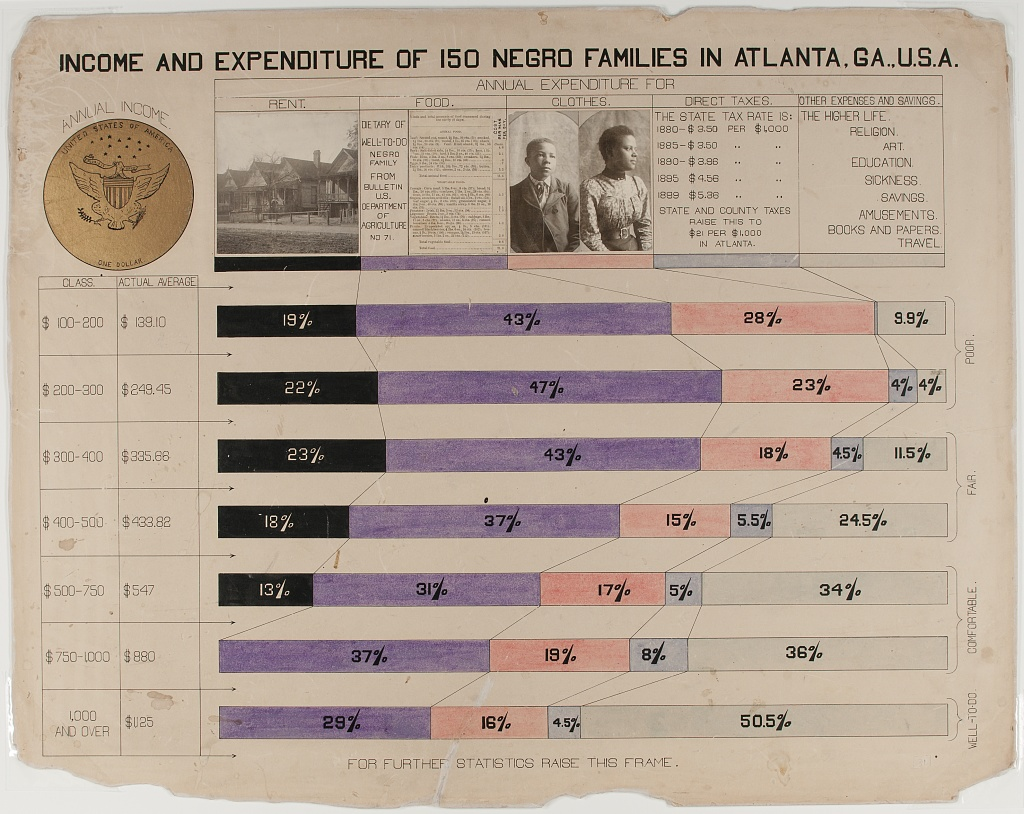
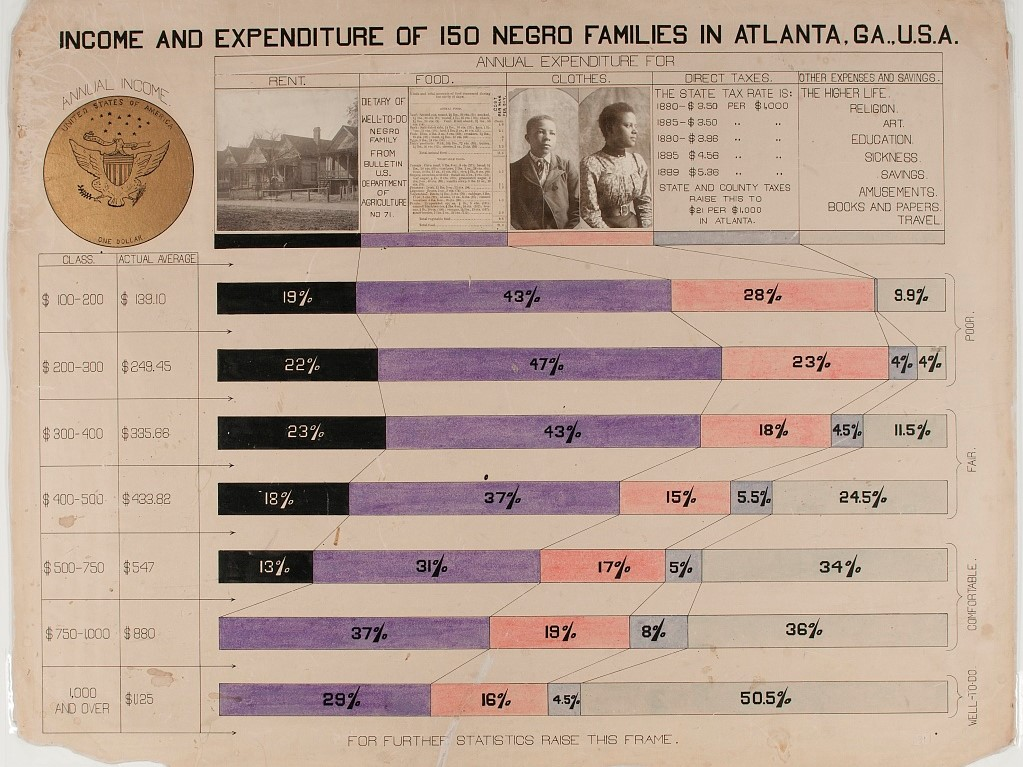
Commit challenge 5

diff --git a/README.md b/README.md
@@ -32,6 +32,13 @@ Challenge 4</h3>
 </p>
 
 <h3 align="center">
+Challenge 5</h3>
+
+<p align="center">
+<img src="https://github.com/nrennie/dubois_challenge/blob/main/images/challenge_05.jpg?raw=true" width="50%"><img src="https://github.com/nrennie/dubois_challenge/blob/main/images/original_05.jpg?raw=true" width="50%">
+</p>
+
+<h3 align="center">
 Challenge 6</h3>
 
 <p align="center">
